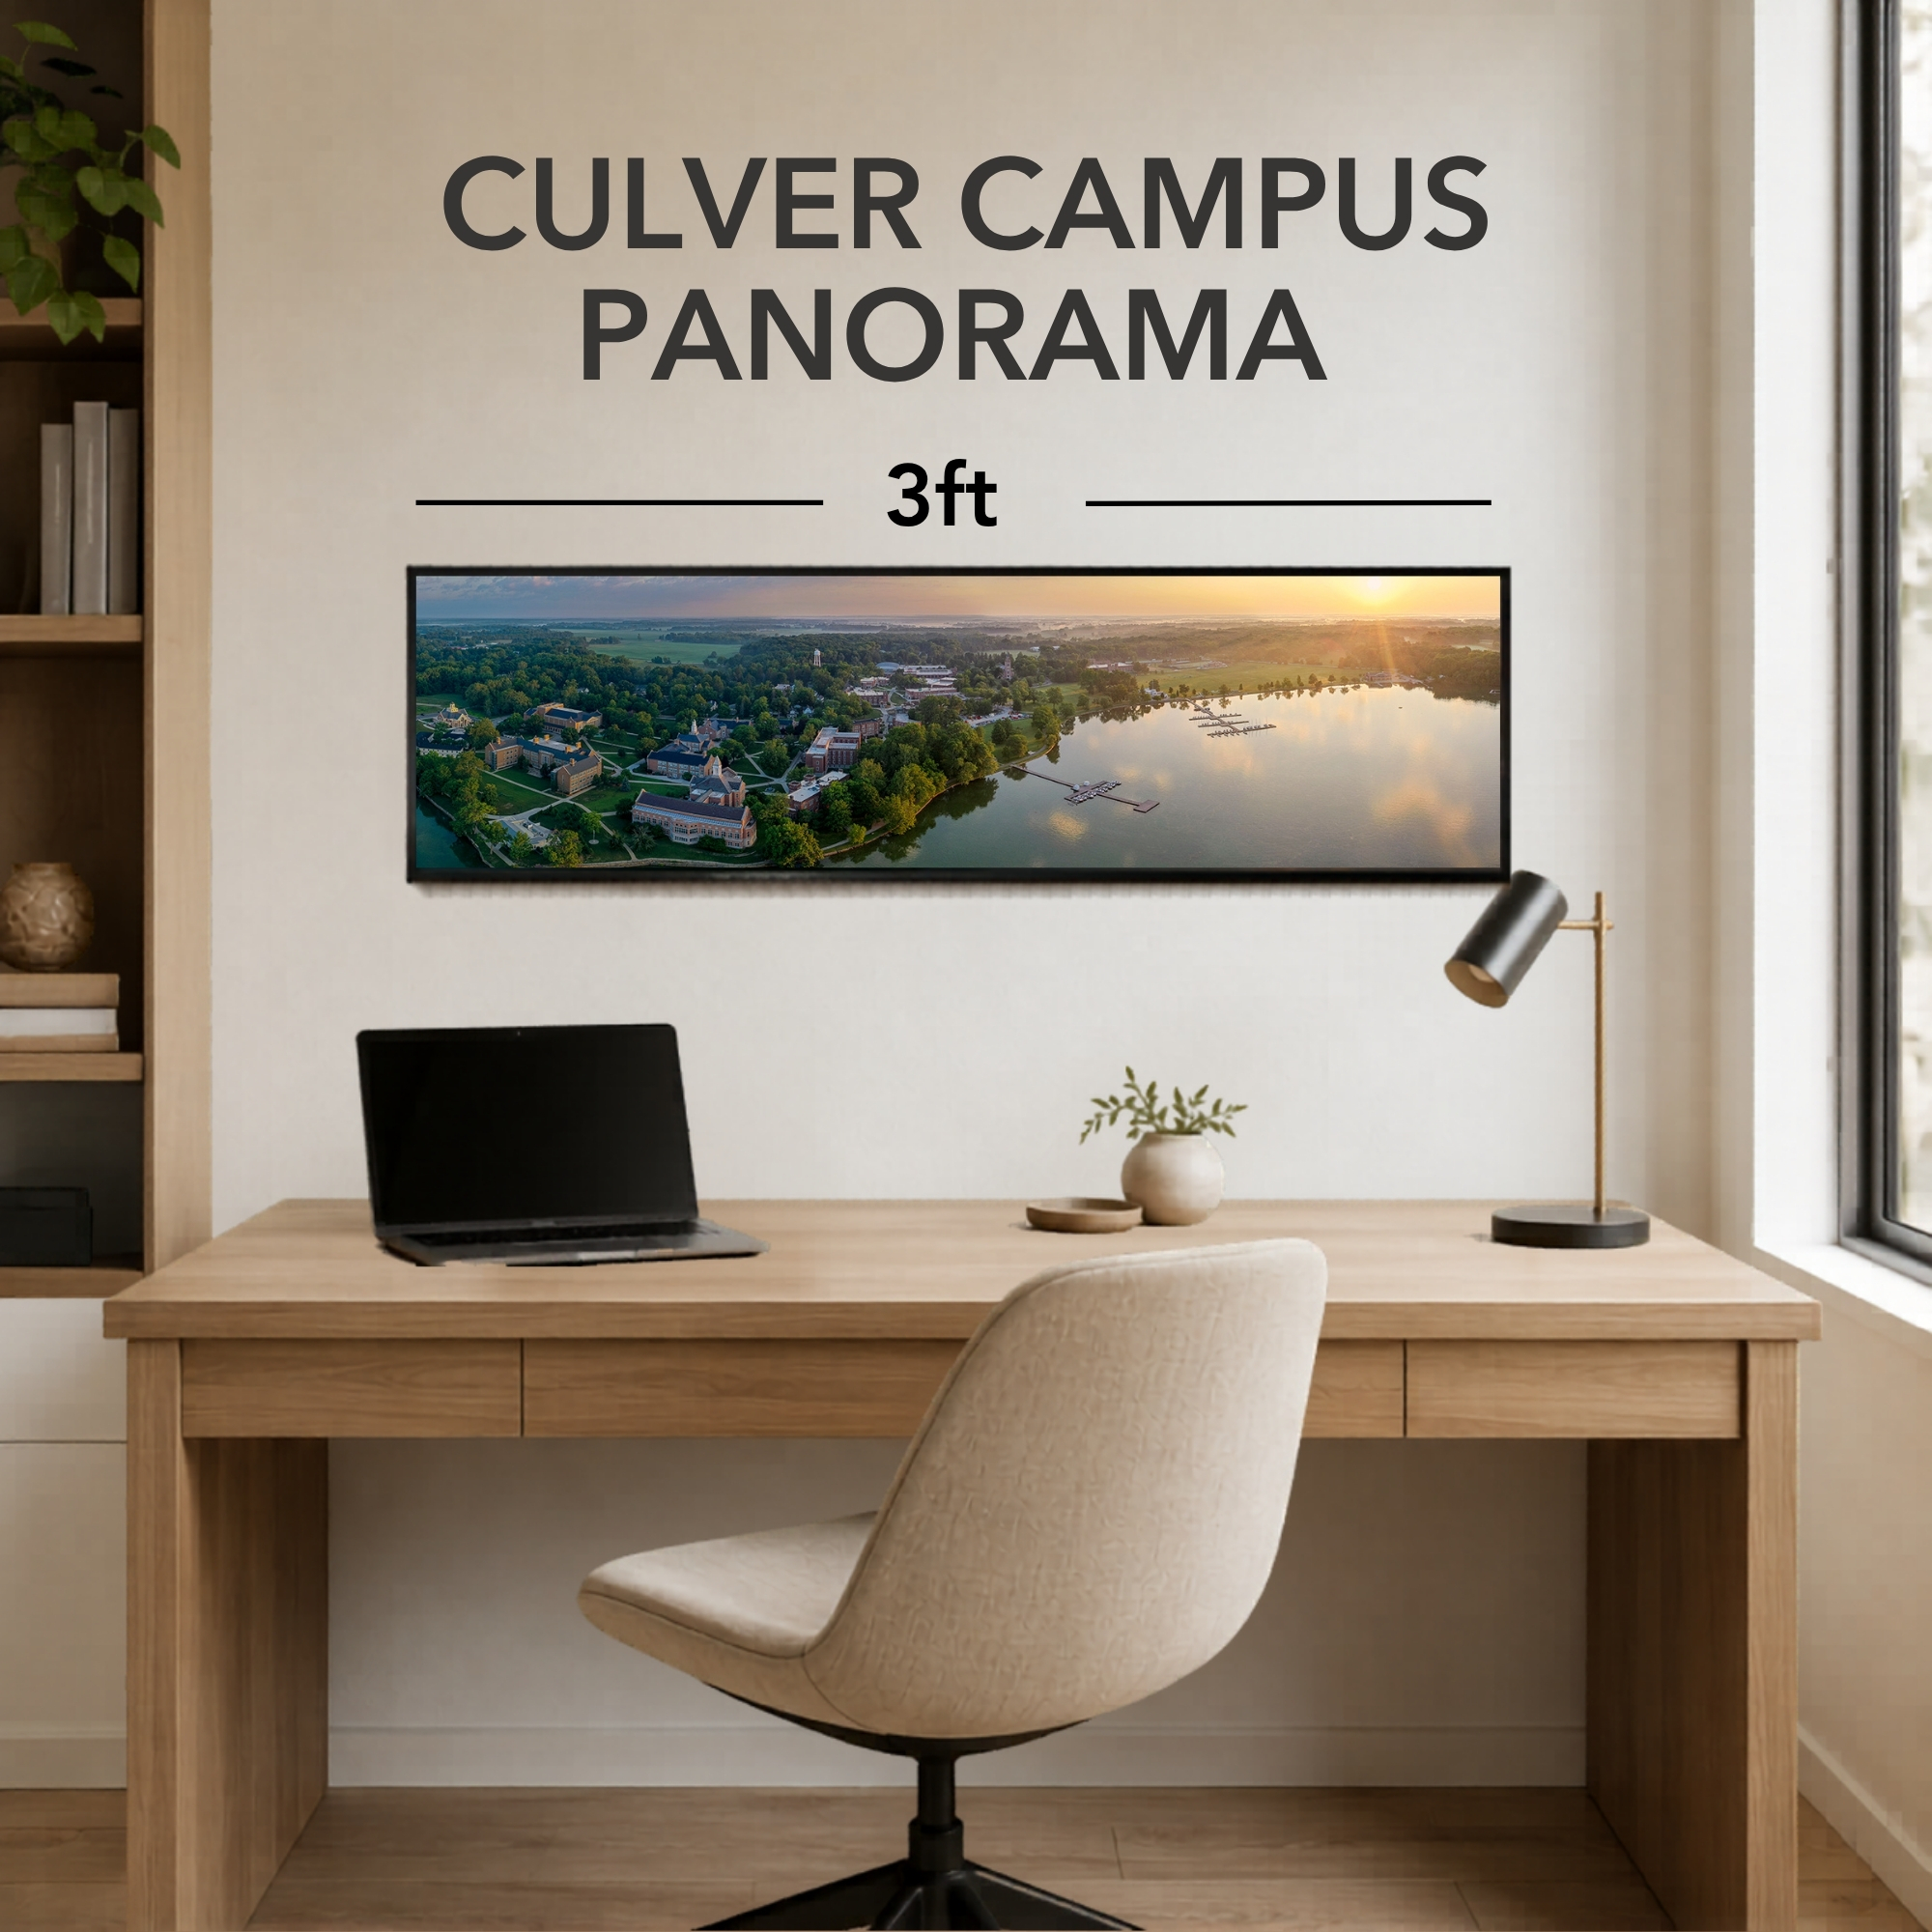
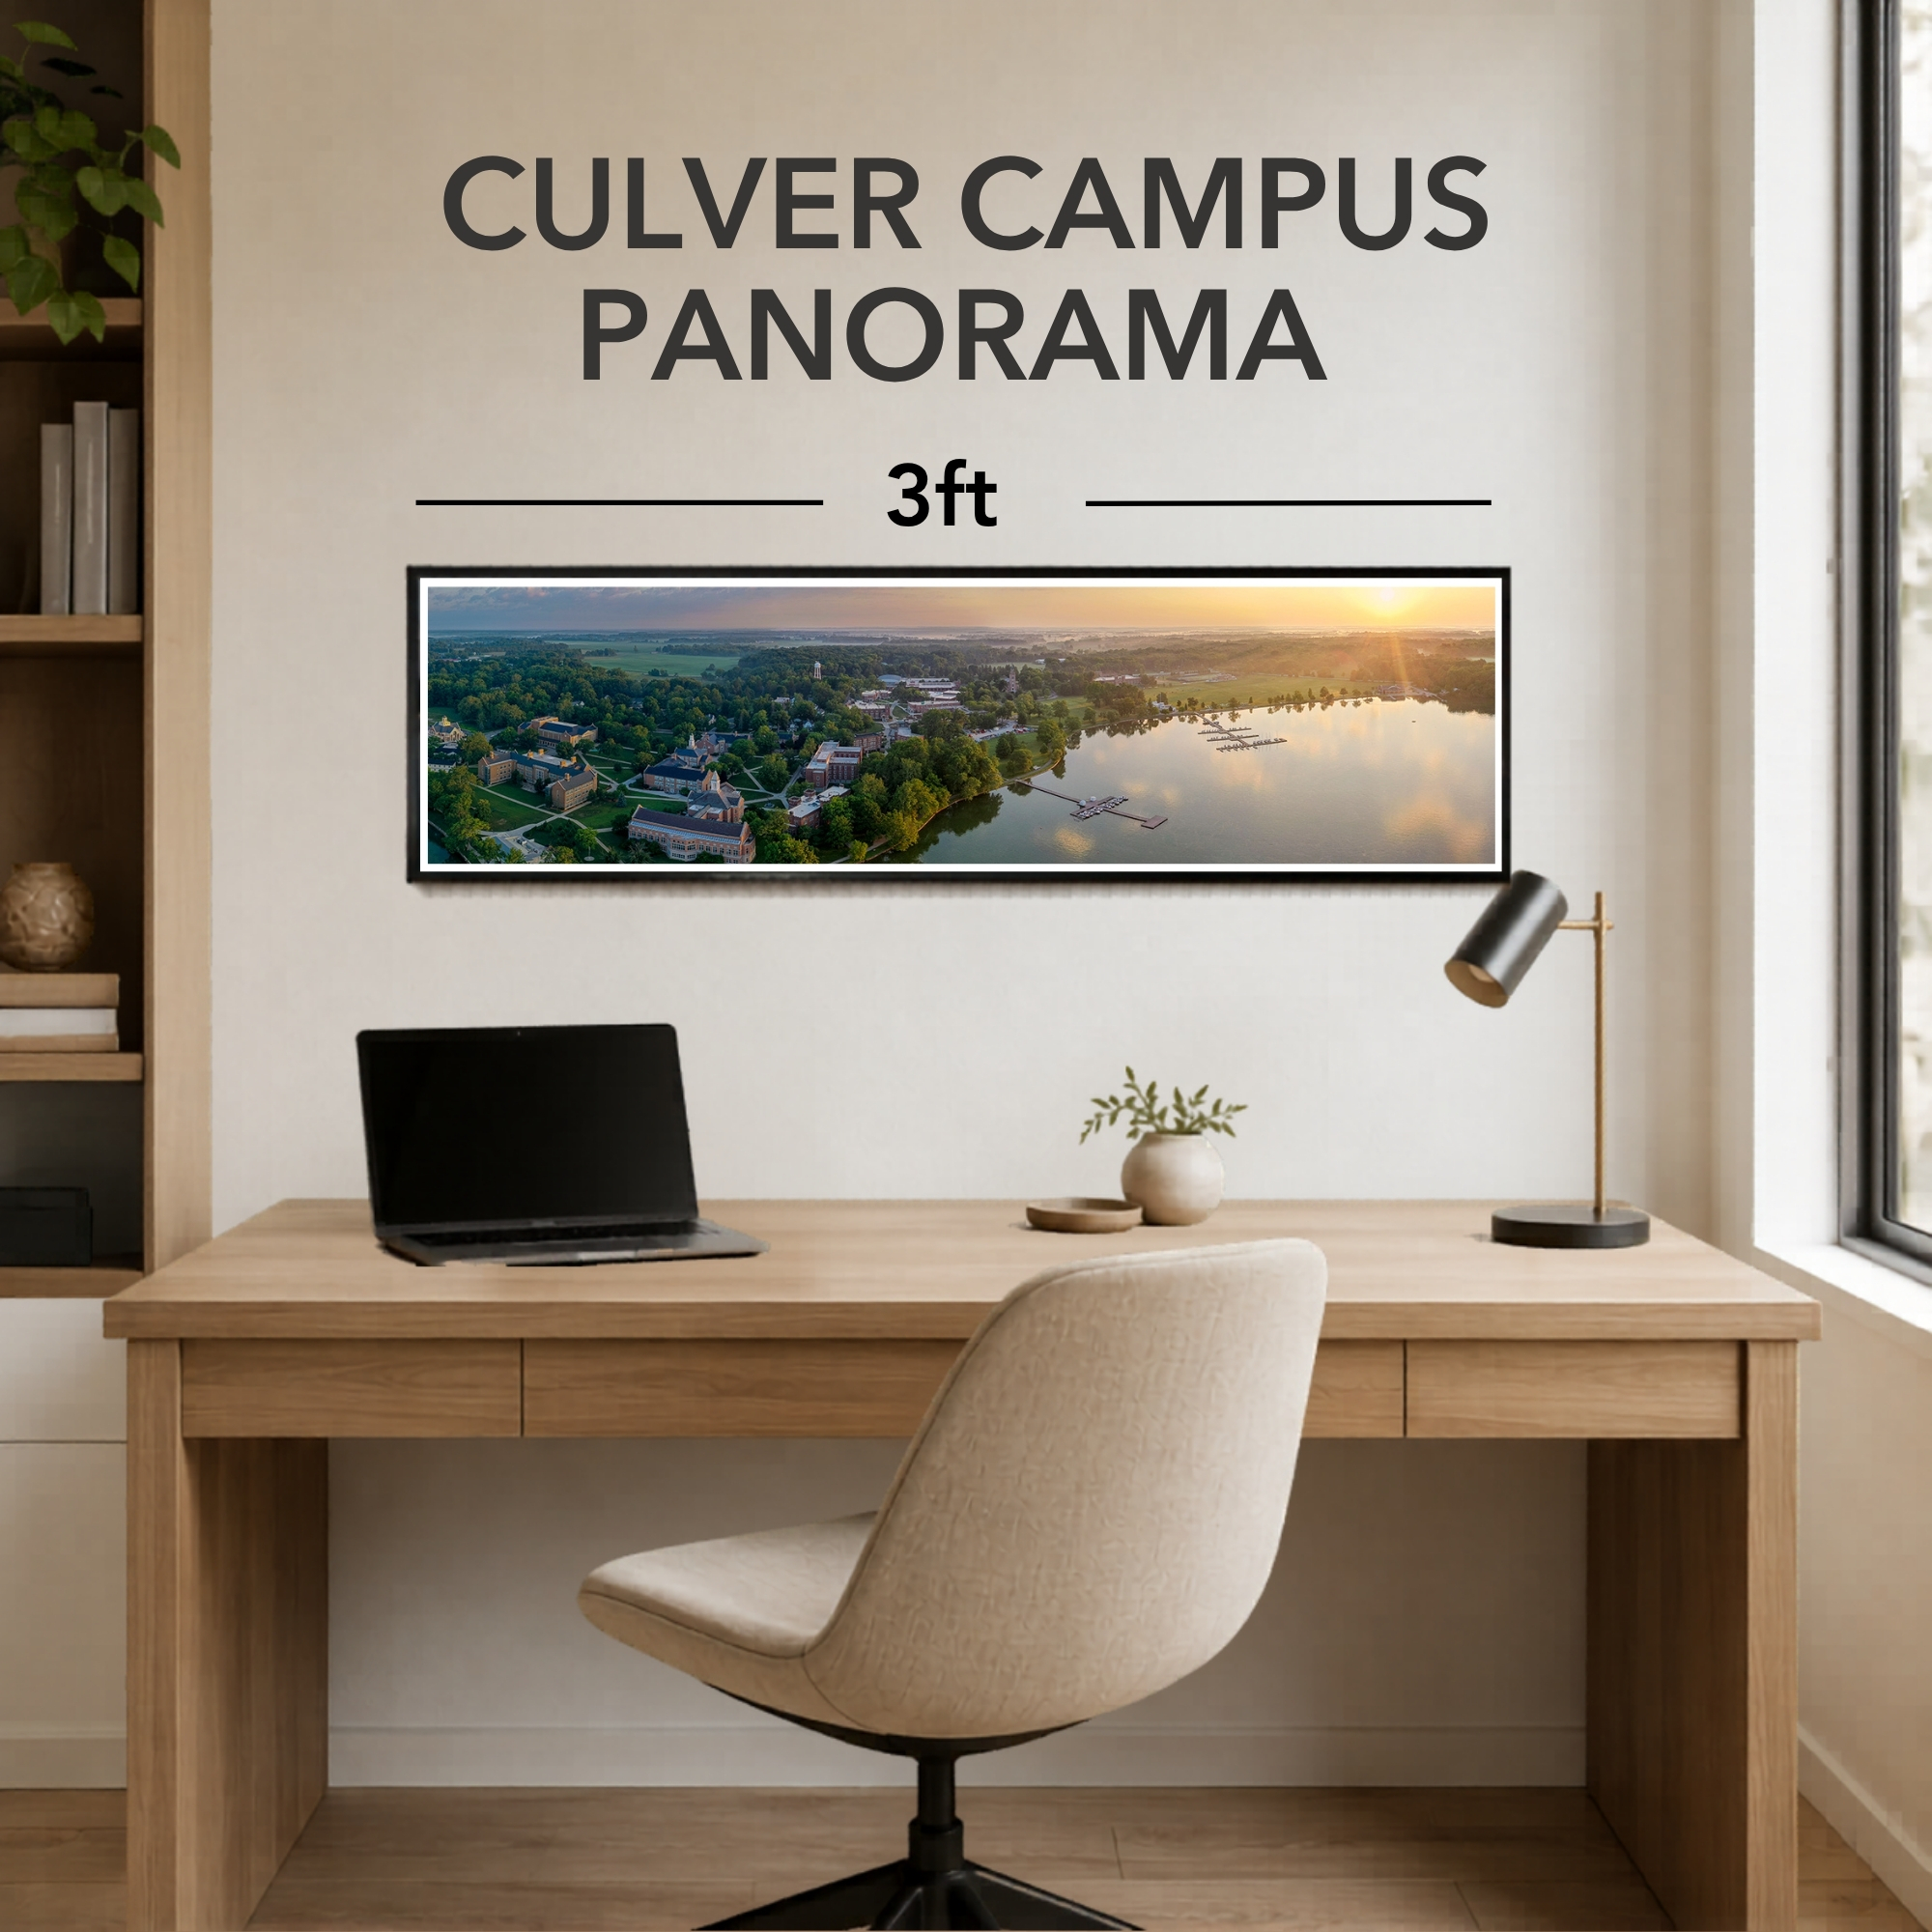
Swap in white-border print images, enlarge family bio photo 20%, refresh PDF

Changed region(s): [[0.217, 0.279, 0.775, 0.465]]

diff --git a/culverpanos/index.html b/culverpanos/index.html
@@ -292,8 +292,8 @@ nav.over-poster .nav-back:hover { color: #1a1714; }
   align-items: center;
 }
 .about-family-img {
-  width: 260px;
-  height: 260px;
+  width: 312px;
+  height: 312px;
   flex-shrink: 0;
   object-fit: cover;
 }
@@ -409,7 +409,7 @@ footer {
   .pricing-grid { grid-template-columns: 1fr; }
   .price-card { padding: 36px 28px; }
   .about-section { padding: 72px 24px; flex-direction: column; gap: 40px; }
-  .about-family-img { width: 180px; height: 180px; }
+  .about-family-img { width: 216px; height: 216px; }
   .cta-section { padding: 80px 24px; }
   footer { padding: 24px 20px; }
 }
@@ -546,7 +546,7 @@ footer {
 <!-- ABOUT -->
 <section class="about-section">
   <img class="about-family-img fade-in"
-       src="https://images.nathanclendenin.com/cdn-cgi/image/width=520,quality=88,format=auto/assets/culverpanos/clendenin-family.png"
+       src="https://images.nathanclendenin.com/cdn-cgi/image/width=640,quality=88,format=auto/assets/culverpanos/clendenin-family.png"
        alt="The Clendenin Family">
   <div class="fade-in">
     <div class="about-col-label">About the Artist</div>